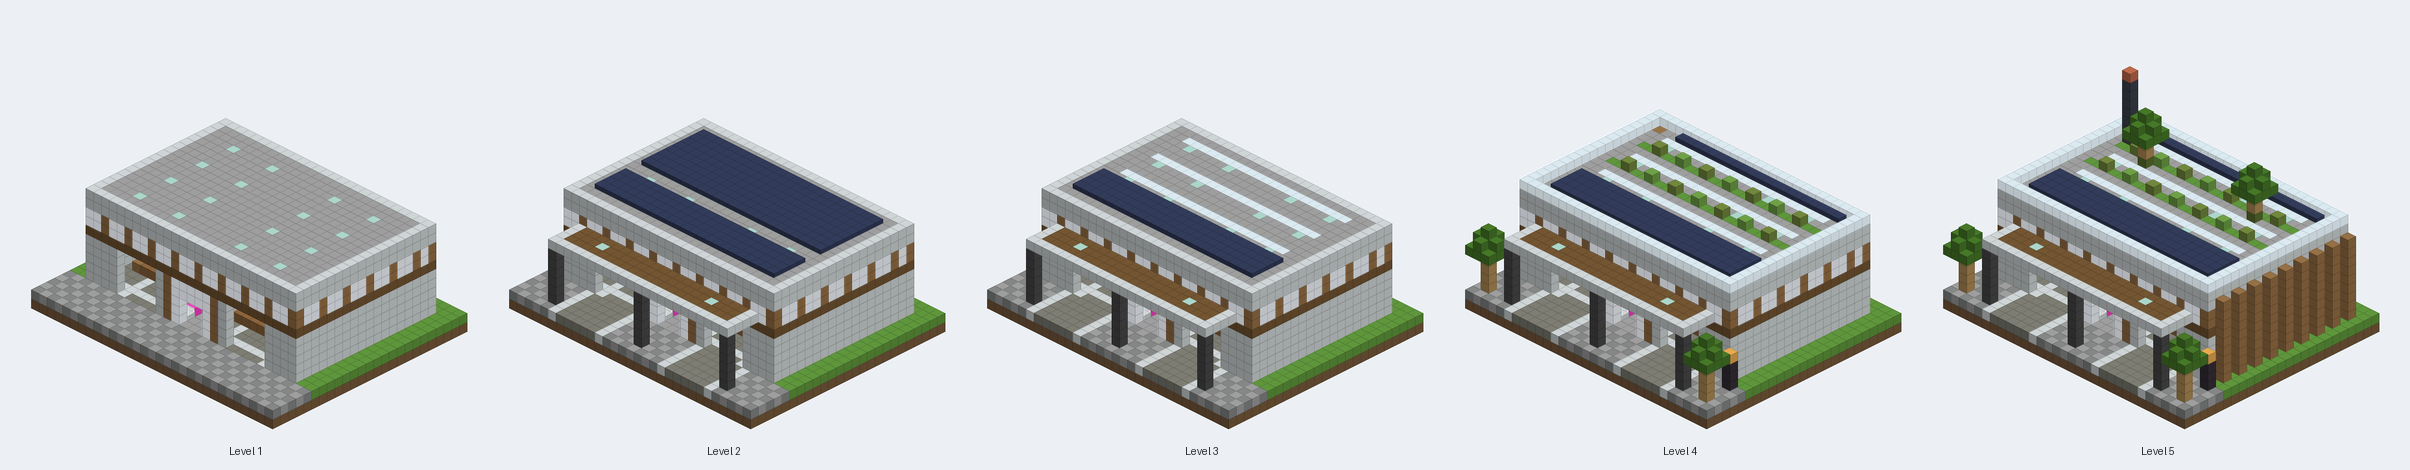
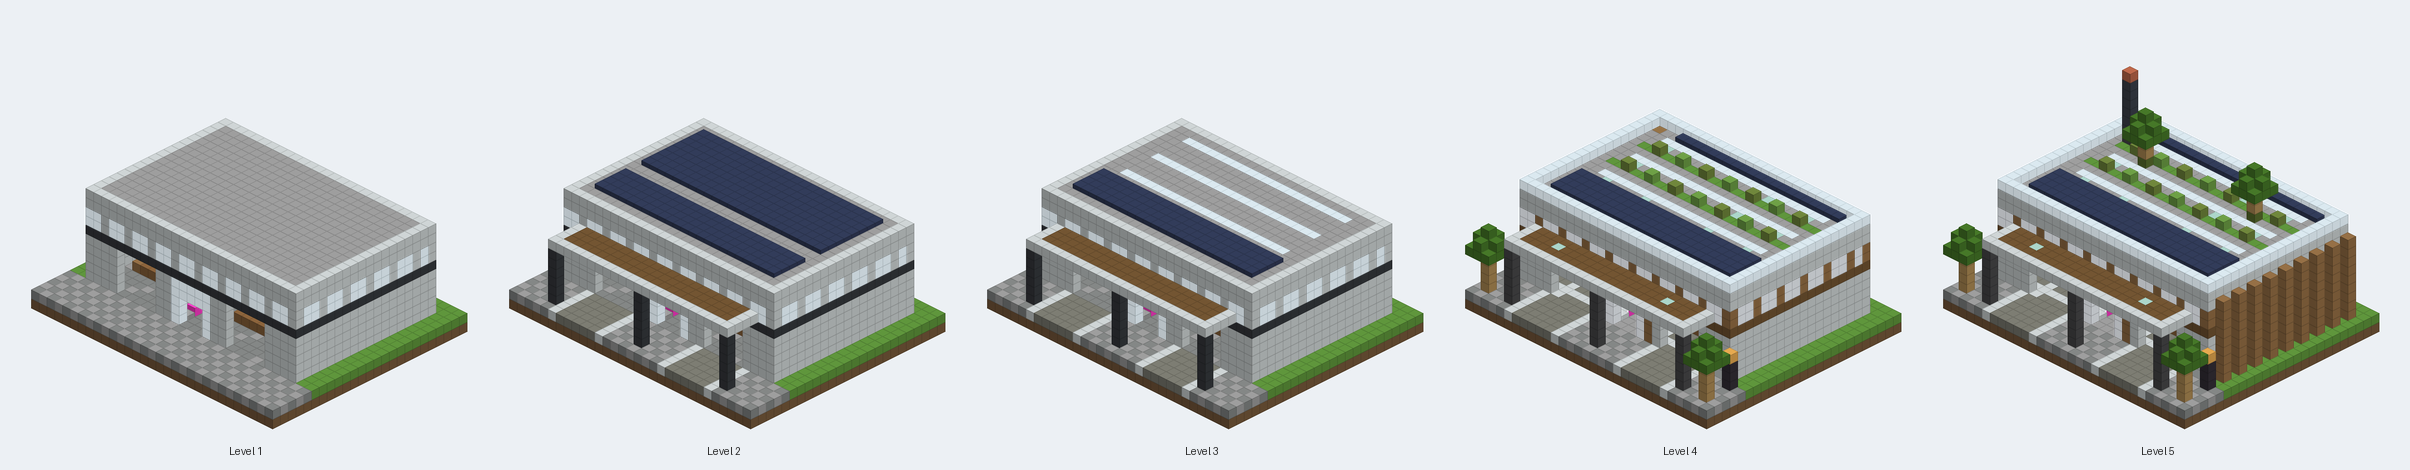
Make levels 1-3 the cheaper versions, premium palette from level 4
Levels 1-3 use plain glass, gray concrete, smooth stone, lanterns and
glass-pane railings with no Domum Ornamentum or Nether/End blocks; tinted
glass, polished deepslate, quartz, sea lanterns and DO pieces start at level 4.

Claude-Session: https://claude.ai/code/session_01HWXe5nQRHGG7eX2eiwshR9

diff --git a/tools/blueprints/neoterra/common.py b/tools/blueprints/neoterra/common.py
@@ -179,21 +179,23 @@ def connect_panes(bp: Blueprint):
 
 
 # ----------------------------------------------------------------------------- Neoterra style
-# When True, levels 1-2 avoid Nether/End and Domum Ornamentum blocks (cheaper early builds).
-# Off by request: every level uses the full Neoterra palette.
-EARLY_GAME_MATERIALS = False
+# Levels up to CHEAP_UNTIL use a cheaper palette (plain glass, gray concrete, smooth stone,
+# lanterns, glass-pane railings). The premium look (tinted glass, polished deepslate, quartz,
+# sea lanterns, Domum Ornamentum lights and railings) starts the level after.
+EARLY_GAME_MATERIALS = True
+CHEAP_UNTIL = 3
 
 
 class Style:
     """Neoterra materials by building level (modern architecture ~20 years from now).
 
-    Levels 1-2 only use early-game materials (no Nether/End); level 3+ upgrades glass,
-    trim and lighting and starts using Domum Ornamentum pieces.
+    Levels 1-3 use a cheaper palette; level 4+ upgrades glass, trim and lighting and uses
+    Domum Ornamentum pieces (see CHEAP_UNTIL).
     """
 
     def __init__(self, level: int):
         self.level = level
-        self.early = EARLY_GAME_MATERIALS and level <= 2
+        self.early = EARLY_GAME_MATERIALS and level <= CHEAP_UNTIL
         self.WHITE = "white_concrete"
         self.LIGHTGRAY = "light_gray_concrete"
         self.GLASS = "glass" if self.early else "light_gray_stained_glass"
@@ -204,7 +206,7 @@ class Style:
         self.DECK = "spruce_planks"
         self.SEAT = "spruce_stairs"
         self.LEAVES = "azalea_leaves[distance=1,persistent=true,waterlogged=false]"
-        self.railing = "glass_pane" if self.early and level == 1 else do_paperwall("gray_concrete", "glass")
+        self.railing = "glass_pane" if self.early else do_paperwall("gray_concrete", "glass")
         self.counter = ("smooth_stone_slab[type=top,waterlogged=false]" if self.early
                         else do_slab("white_concrete", "top"))
 

diff --git a/tools/blueprints/neoterra/townhall.py b/tools/blueprints/neoterra/townhall.py
@@ -12,7 +12,8 @@ Every level has the same 45 x 62 x 45 footprint, so upgrades build on top of eac
                       green roof ring with planting on the podium.
   L3  Archive Tower   two-storey glass tower (r9) with timber mullions: enchanting library
                       (30 bookshelves), quarters with beds, planted balcony, street lamps.
-                      Glass goes tinted, recessed DO ceiling lights, quartz stairs.
+                      (Levels 1-3 use the cheaper palette; level 4 upgrades to tinted glass,
+                      quartz stairs, polished deepslate and recessed DO ceiling lights.)
   L4  Sky Lounge      glass sky lounge (r7), timber roof deck, ender chest / jukebox / bar,
                       exterior glass bubble-column elevator lobby -> roof, trees + water features.
   L5  Landmark        vertical timber sun-shading fins, roof garden with trees, antenna mast,
@@ -200,7 +201,8 @@ def build(level: int) -> Blueprint:
         ring(26, 26, 11, lambda x, y, z: railing)
         ring(26, 32, 9, tower_wall)
         disc(33, 9, lambda x, z: WHITE if dist(x, z, C) >= 8.5 else floor_mat(x, z))
-        ring(25, 25, 12, lambda x, y, z: do_stairs(WHITE, toward_center(x, z, C), half="top"))
+        if not early:  # flared eave under the balcony
+            ring(25, 25, 12, lambda x, y, z: do_stairs(WHITE, toward_center(x, z, C), half="top"))
         ring(34, 34, 9, lambda x, y, z: railing)
         for y_ceiling in (25, 33):
             for a in range(6):

diff --git a/tools/blueprints/neoterra/warehouse.py b/tools/blueprints/neoterra/warehouse.py
@@ -150,7 +150,7 @@ def build(level: int) -> Blueprint:
         # office furniture
         y = MEZZ + 1
         for x in range(6, 10):
-            put(bp, x, y, 7, do_slab(T, "top"))                   # desk facing the hall
+            put(bp, x, y, 7, st.counter if st.early else do_slab(T, "top"))                   # desk facing the hall
         for x in (6, 8):
             bp.set(x, y, 8, "spruce_stairs[facing=south,half=bottom,shape=straight,waterlogged=false]")
         bp.set(3, y, 6, "crafting_table")

diff --git a/tools/blueprints/neoterra/deliveryman.py b/tools/blueprints/neoterra/deliveryman.py
@@ -257,7 +257,7 @@ def build(level: int) -> Blueprint:
     if L >= 3:  # dispatch office upstairs
         y = GROUND_TOP + 1
         for x in range(5, 10):
-            put(bp, x, y, 14, do_slab(T, "top"))                 # desks
+            put(bp, x, y, 14, st.counter if st.early else do_slab(T, "top"))                 # desks
         for x in (5, 7, 9):
             bp.set(x, y, 13, "spruce_stairs[facing=north,half=bottom,shape=straight,waterlogged=false]")
             sit.append((x, y, 13))

diff --git a/README.md b/README.md
@@ -19,14 +19,15 @@ Copy `stylepacks/Neoterra` into `.minecraft/blueprints/` (so you get
 |---|---|---|
 | 1 Founding Hall | Round glass podium, reception with the hut block, stair core to a roof terrace, solar panels | Crafting table, 2 furnaces, 4 barrels, bed (respawn) |
 | 2 Civic Ring | Second-floor ring building with timber band, green roof ring, terrace railings | Full workshop: smithing table, stonecutter, grindstone, anvil, loom, cartography & fletching tables, blast furnace, smoker, furnace, brewing stand, water cauldron, 10 barrels |
-| 3 Archive Tower | Two-storey tinted-glass tower with timber mullions, balcony, street lamps, Domum Ornamentum trim and recessed lights | Enchanting library (max level enchants: 30 bookshelves), lectern, anvil, grindstone, 4 beds |
-| 4 Sky Lounge | Glass sky lounge, timber roof deck, street trees, water features | Ender chest, jukebox, bar; **glass bubble-column elevator** from the lobby (copper door) straight to the roof deck |
+| 3 Archive Tower | Two-storey glass tower with timber mullions, balcony, street lamps | Enchanting library (max level enchants: 30 bookshelves), lectern, anvil, grindstone, 4 beds |
+| 4 Sky Lounge | Glass sky lounge, timber roof deck, street trees, water features; premium upgrade (tinted glass, quartz, DO trim and recessed lights) | Ender chest, jukebox, bar; **glass bubble-column elevator** from the lobby (copper door) straight to the roof deck |
 | 5 Landmark | Vertical timber sun-shading fins, roof garden with trees, antenna mast | **Glass-floored skywalk** off the roof deck, ~40 blocks up (doubles as an elytra launch) |
 
 Approximate blocks: L1 ≈ 3.8k, L2 ≈ 5.1k, L3 ≈ 7.6k, L4 ≈ 9.0k, L5 ≈ 9.4k (mostly concrete, glass and spruce).
-All levels use the full palette (quartz, sea lanterns, polished deepslate, Domum Ornamentum),
-so even level 1 looks finished. (`EARLY_GAME_MATERIALS` in `common.py` switches levels 1–2 back
-to cheap early-game blocks.)
+Levels 1–3 are the cheaper versions (plain glass, gray concrete, smooth stone, lanterns,
+glass-pane railings); the premium look (tinted glass, polished deepslate, quartz, sea lanterns,
+Domum Ornamentum lights and railings) arrives at level 4 and is completed at level 5.
+(`CHEAP_UNTIL` in `common.py` controls this.)
 
 ### Courier's hut (`craftsmanship/storage/deliveryman1-5`) – 23 × 22 × 21, same footprint every level
 Hut block: `minecolonies:blockhutdeliveryman` (MineColonies calls it the Courier's Hut).
@@ -37,8 +38,8 @@ Hut block: `minecolonies:blockhutdeliveryman` (MineColonies calls it the Courier
 |---|---|---|
 | 1 Depot Hall | Glass depot hall with a 7-wide loading door, reception counter with the hut block | 8 parcel lockers (barrels), crafting table, cartography table |
 | 2 Loading Canopy | Timber canopy on charcoal columns, loading-bay markings, green roof + solar panels | 21 lockers + 10 storage barrels, lectern, waiting bench |
-| 3 Dispatch Office | Upper floor (tinted glass, timber mullions), staircase through a double-height void, roof terrace with planters | Office desks, 12 bookshelves, lectern, cartography table, 10 more lockers |
-| 4 Drone Port | Roof drone pad, solar array, roof railing + ladder, street trees and lamps | Bed (respawn) |
+| 3 Dispatch Office | Upper floor (timber mullions), staircase through a double-height void, roof terrace with planters | Office desks, 12 bookshelves, lectern, cartography table, 10 more lockers |
+| 4 Drone Port | Roof drone pad, solar array, roof railing + ladder, street trees and lamps; premium upgrade (tinted glass, DO lights/railings) | Bed (respawn) |
 | 5 Landmark | Full-height timber louvres on side and back facades, terrace trees, antenna mast | Ender chest |
 
 Approximate blocks: L1 ≈ 1.2k, L2 ≈ 1.3k, L3 ≈ 1.7k, L4 ≈ 1.8k, L5 ≈ 2.1k.
@@ -53,8 +54,8 @@ max 3 high, every rack next to an aisle so couriers can reach it).
 |---|---|---|---|
 | 1 | 36 | Tall distribution hall: clerestory glass band, two 5×5 loading docks, glazed entrance, reception counter | Crafting table |
 | 2 | 72 | Timber dock canopy on charcoal columns, dock bay markings, rooftop solar | – |
-| 3 | 144 | Office mezzanine reached by stairs, skylights, tinted glass, timber mullions | Desk, crafting & cartography tables, lectern, barrels |
-| 4 | 216 | Roof railing + ladder, green roof strips, street trees and lamps | Roof access |
+| 3 | 144 | Office mezzanine reached by stairs, skylights | Desk, crafting & cartography tables, lectern, barrels |
+| 4 | 216 | Roof railing + ladder, green roof strips, street trees and lamps; premium upgrade (tinted glass, timber mullions, DO lights) | Roof access |
 | 5 | 324 | Full-height timber louvres, roof garden with trees, antenna mast | Ender chest |
 
 Approximate blocks (including racks): L1 ≈ 2.0k, L2 ≈ 2.5k, L3 ≈ 2.4k, L4 ≈ 2.7k, L5 ≈ 3.1k.
